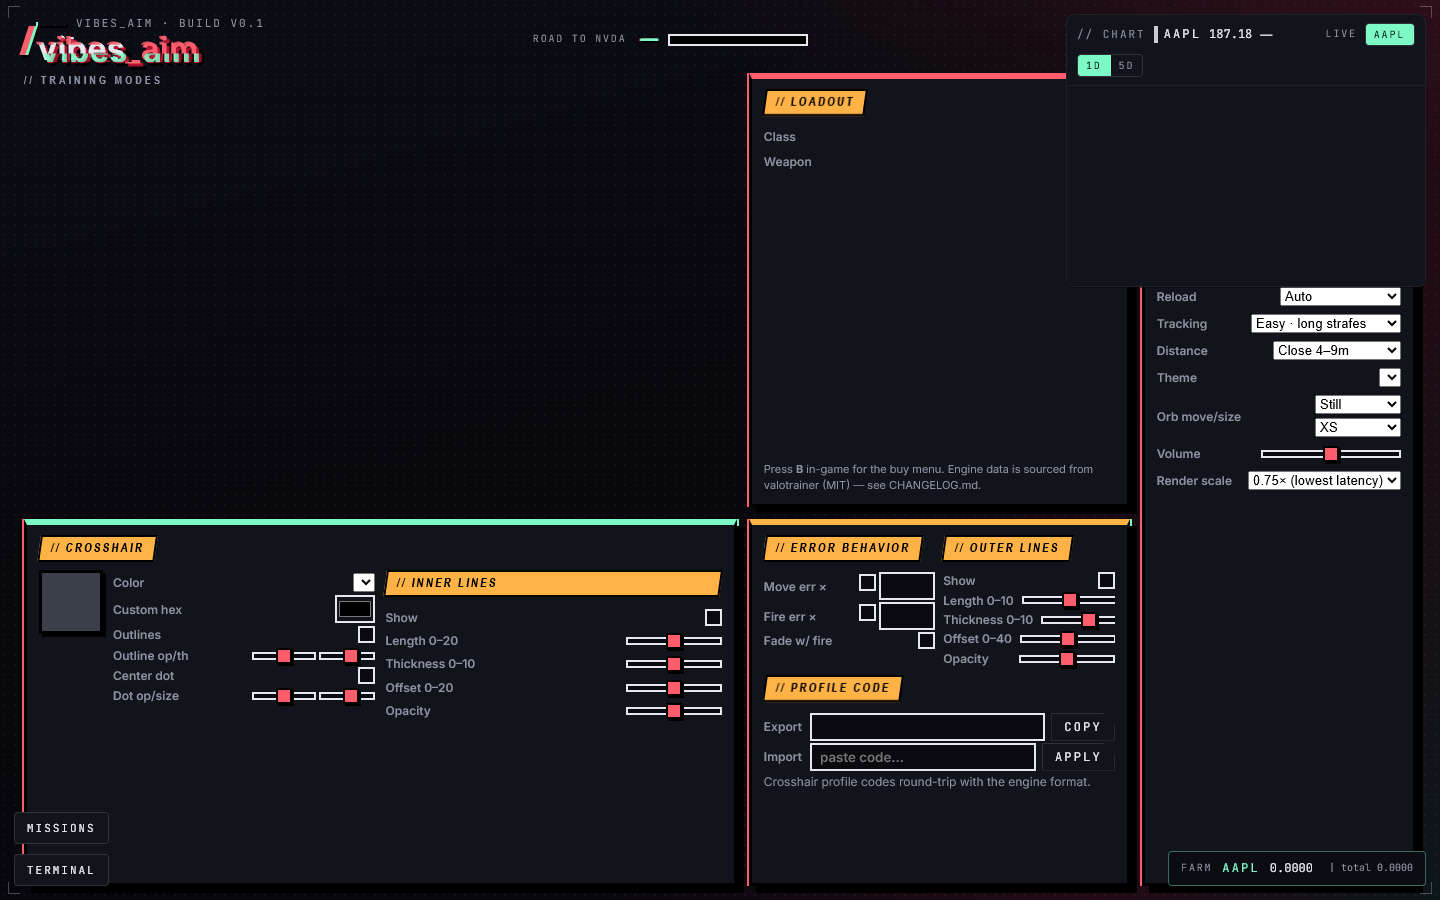
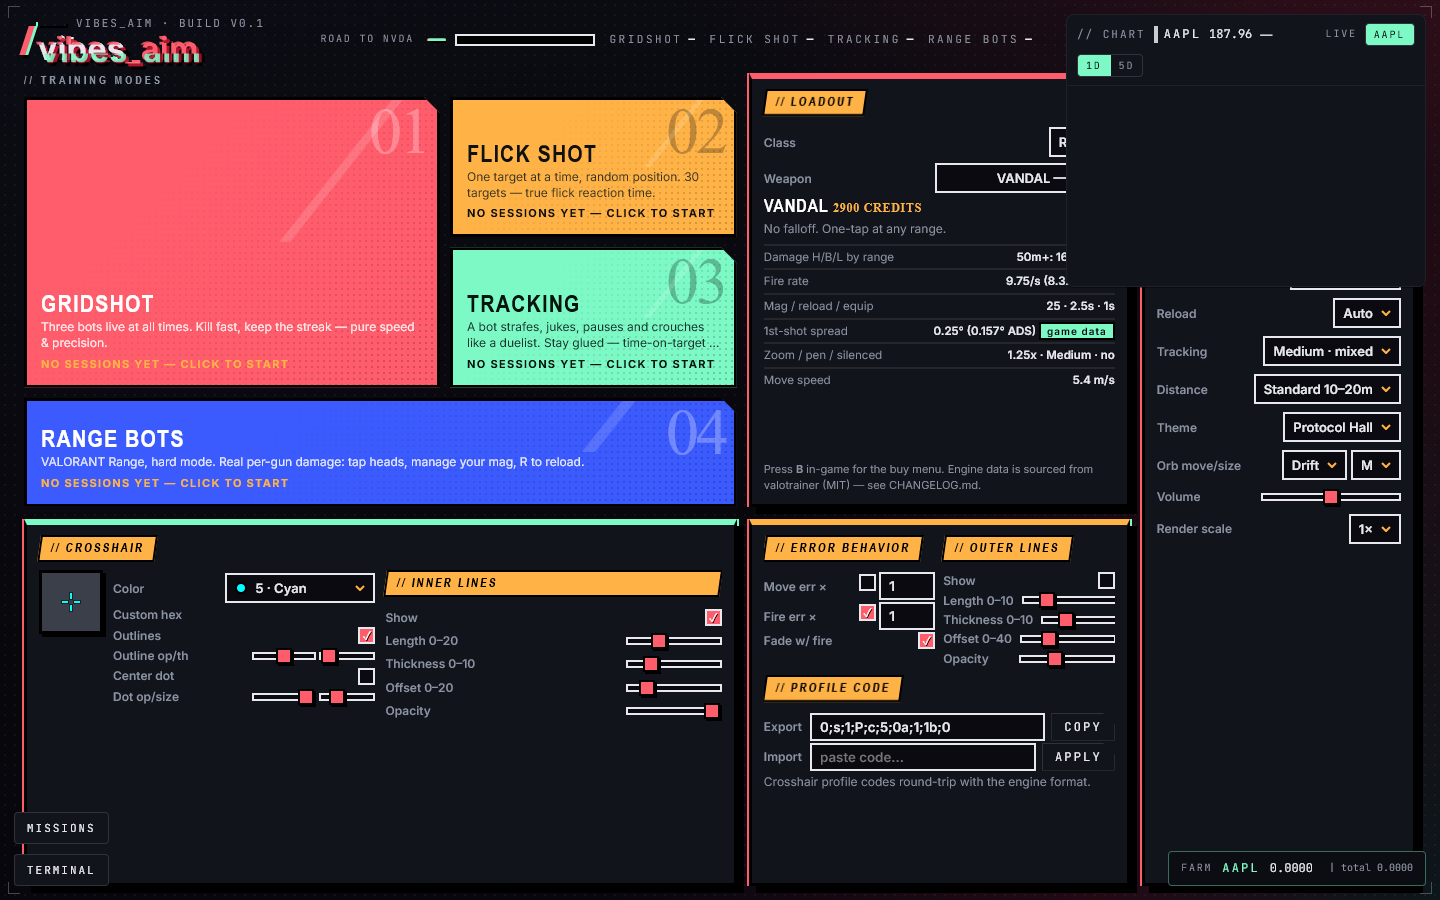
stage 11.3-11.4: secure ticker unlocks and margin

diff --git a/server/src/routes/portfolio.js b/server/src/routes/portfolio.js
@@ -7,6 +7,21 @@ import { sendJson, HttpError, round, clamp } from '../util/json.js';
 
 const MAX_LEVERAGE = 20;
 
+// Unlock check: AAPL is always farmable. Pre-IPO tickers (OPENAI,
+// ANTHROPIC) are checked separately by the market layer (returns price:
+// null), so we skip them here. Any other ticker must be unlocked by the
+// player (default unlocks are empty, so a fresh player cannot preview
+// or open a position on TSLA / NVDA / etc.).
+const PRE_IPO = new Set(['OPENAI', 'ANTHROPIC']);
+async function assertTickerUnlocked(store, playerId, ticker) {
+  if (ticker === 'AAPL') return;
+  if (PRE_IPO.has(ticker)) return; // pre-IPO tickers are checked via price
+  const unlocks = await store.listUnlocks(playerId);
+  if (!unlocks.some((u) => u.ticker === ticker)) {
+    throw new HttpError(400, 'ticker_locked', `Ticker ${ticker} is not unlocked. Complete the AAPL chain to unlock NVDA.`);
+  }
+}
+
 export function portfolioRoutes(r, { market, store }) {
   // GET /portfolio?playerId=... — current state snapshot
   r.get('/portfolio', async (req, res, _params, query) => {
@@ -26,10 +41,14 @@ export function portfolioRoutes(r, { market, store }) {
 
   // POST /portfolio/preview — given ticker/side/leverage/notional, return
   // the entry and liquidation price without opening a position.
-  r.post('/portfolio/preview', async (_req, res, _params, _query, body) => {
+  r.post('/portfolio/preview', async (req, res, _params, _query, body) => {
     const { ticker, side, leverage, notional } = body || {};
     if (!ticker || !side) throw new HttpError(400, 'bad_request', 'ticker and side required');
     if (!['long', 'short'].includes(side)) throw new HttpError(400, 'bad_side');
+    // Unlock check: read X-Player-Id from headers (preview is usually
+    // sent from the chart panel which knows the player).
+    const playerId = req.headers['x-player-id'];
+    if (playerId) await assertTickerUnlocked(store, playerId, ticker);
     const lev = clamp(Number(leverage) || 1, 1, MAX_LEVERAGE);
     const q = await market.getQuote(ticker);
     if (q.price == null) throw new HttpError(400, 'no_price', `${ticker} is awaiting market`);
@@ -39,7 +58,7 @@ export function portfolioRoutes(r, { market, store }) {
     sendJson(res, 200, {
       ticker, side, leverage: lev, entry, liquidationPrice: liq,
       notional: round(size * lev, 6),
-      margin: round(size, 6),
+      margin: round(size / lev, 6),
     });
   });
 
@@ -50,6 +69,7 @@ export function portfolioRoutes(r, { market, store }) {
     const { ticker, side, leverage, notional, confirmLiquidation } = body || {};
     if (!ticker || !side) throw new HttpError(400, 'bad_request', 'ticker and side required');
     if (!['long', 'short'].includes(side)) throw new HttpError(400, 'bad_side');
+    await assertTickerUnlocked(store, playerId, ticker);
     const lev = clamp(Number(leverage) || 1, 1, MAX_LEVERAGE);
     const q = await market.getQuote(ticker);
     if (q.price == null) throw new HttpError(400, 'no_price', `${ticker} is awaiting market`);
@@ -60,7 +80,10 @@ export function portfolioRoutes(r, { market, store }) {
       throw new HttpError(400, 'confirm_required', 'Call /portfolio/preview first, then POST with confirmLiquidation:true');
     }
     const size = Number(notional) || entry;
-    const margin = size; // simplified: margin = notional / leverage
+    // Margin = notional / leverage. With leverage 5x and notional 100,
+    // you commit 20 as margin and control 100 of position. Matches
+    // client/src/terminal-core.js#computeOrder and the /close return.
+    const margin = size / lev;
     const player = await store.getOrCreatePlayer(playerId);
     if (player.stable < margin) throw new HttpError(400, 'insufficient_margin', `need ${margin.toFixed(2)} stable, have ${player.stable.toFixed(2)}`);
     await store.addStable(playerId, -margin);

diff --git a/server/src/db/supabase.js b/server/src/db/supabase.js
@@ -62,6 +62,15 @@ export function createSupabaseStore({ url, serviceKey }) {
 
   function eqFilter(col, val) { return `${col}=eq.${encodeURIComponent(val)}`; }
   function select(cols) { return cols ? `select=${encodeURIComponent(cols)}` : 'select=*'; }
+  function toPlayer(row) {
+    if (!row) return null;
+    return {
+      ...row,
+      stable: Number(row.stable),
+      // Backward-compatible for a row created before migration 0002.
+      preciseBest: Number.isFinite(Number(row.precise_best)) ? Number(row.precise_best) : 0,
+    };
+  }
 
   return {
     backend: 'supabase',
@@ -69,15 +78,15 @@ export function createSupabaseStore({ url, serviceKey }) {
     // ----- players -----
     async getOrCreatePlayer(playerId) {
       const rows = await rpc(TABLE.players, `?${eqFilter('id', playerId)}&limit=1`);
-      if (rows && rows[0]) return rows[0];
+      if (rows && rows[0]) return toPlayer(rows[0]);
       const now = new Date().toISOString();
-      const body = [{ id: playerId, stable: 1000, created_at: now, updated_at: now }];
+      const body = [{ id: playerId, stable: 200, precise_best: 0, created_at: now, updated_at: now }];
       const inserted = await rpc(TABLE.players, `?${select()}`, { method: 'POST', body });
-      return inserted && inserted[0];
+      return toPlayer(inserted && inserted[0]);
     },
     async getPlayer(playerId) {
       const rows = await rpc(TABLE.players, `?${eqFilter('id', playerId)}&limit=1`);
-      return rows && rows[0] ? rows[0] : null;
+      return rows && rows[0] ? toPlayer(rows[0]) : null;
     },
     async addStable(playerId, amount) {
       const cur = await this.getOrCreatePlayer(playerId);
@@ -87,7 +96,20 @@ export function createSupabaseStore({ url, serviceKey }) {
         `?${eqFilter('id', playerId)}`,
         { method: 'PATCH', body: { stable: next, updated_at: now },
           headers: { 'Prefer': 'return=representation' } });
-      return rows && rows[0] ? rows[0] : { ...cur, stable: next, updated_at: now };
+      return rows && rows[0] ? toPlayer(rows[0]) : { ...cur, stable: next, updated_at: now };
+    },
+    async recordAccuracy(playerId, accuracy) {
+      const cur = await this.getOrCreatePlayer(playerId);
+      const next = Number(accuracy);
+      if (!Number.isFinite(next) || next < 0 || next <= cur.preciseBest) return cur;
+      const now = new Date().toISOString();
+      const rows = await rpc(TABLE.players,
+        `?${eqFilter('id', playerId)}`,
+        { method: 'PATCH', body: { precise_best: round6(next), updated_at: now },
+          headers: { 'Prefer': 'return=representation' } });
+      return rows && rows[0]
+        ? toPlayer(rows[0])
+        : { ...cur, preciseBest: round6(next), updated_at: now };
     },
 
     // ----- balances -----

diff --git a/server/src/routes/aim.js b/server/src/routes/aim.js
@@ -13,6 +13,19 @@ export function aimRoutes(r, { store, config }) {
     if (!hitId || typeof hitId !== 'string') throw new HttpError(400, 'missing_hit_id', 'hitId is required');
     if (!ticker || typeof ticker !== 'string') throw new HttpError(400, 'missing_ticker', 'ticker is required');
 
+    // Unlock check: AAPL is always farmable. Pre-IPO tickers (OPENAI,
+    // ANTHROPIC) are valid hit targets — the server mints their unit but
+    // the chart shows no price. Any other ticker requires an unlock
+    // record. This makes the AAPL -> NVDA chain real: you cannot bypass
+    // the missions by POSTing directly to /aim/hit with a different
+    // ticker. Tickers the player has never heard of (typo) are caught
+    // here before they reach the rate limiter.
+    const PRE_IPO = new Set(['OPENAI', 'ANTHROPIC']);
+    const unlocks = await store.listUnlocks(playerId);
+    if (ticker !== 'AAPL' && !PRE_IPO.has(ticker) && !unlocks.some((u) => u.ticker === ticker)) {
+      throw new HttpError(400, 'ticker_locked', `Ticker ${ticker} is not unlocked. Complete the AAPL chain to unlock NVDA.`);
+    }
+
     // Rate limit (per session, sliding window)
     const rate = await store.hitRateCheck({ sessionId, windowMs: 1000, maxInWindow: config.aim.hitRps });
     if (!rate.allowed) {

diff --git a/client/js/missions.js b/client/js/missions.js
@@ -145,10 +145,21 @@ export function mountMissions({ root, onTickerUnlocked } = {}) {
   return { unmount, state: () => ({ unlockedThisSession, lastUnlocks: [...lastUnlocks] }) };
 }
 
-// Auto-mount when this module is loaded in a real browser.
+// Auto-mount after the panel markup is definitely available. Module scripts
+// are deferred, but several independent modules boot in parallel; using the
+// DOM readiness boundary avoids a rare visual-test race where the aim menu
+// was ready before this panel had subscribed to the store.
+function autoMountMissions() {
+  const panel = document.getElementById('vibes-missions');
+  if (!panel || panel.dataset.vmMounted === 'true') return;
+  panel.dataset.vmMounted = 'true';
+  mountMissions({ root: panel });
+}
+
 if (typeof document !== 'undefined') {
-  queueMicrotask(() => {
-    const panel = document.getElementById('vibes-missions');
-    if (panel) mountMissions({ root: panel });
-  });
+  if (document.readyState === 'loading') {
+    document.addEventListener('DOMContentLoaded', autoMountMissions, { once: true });
+  } else {
+    queueMicrotask(autoMountMissions);
+  }
 }

diff --git a/server/src/routes/missions.js b/server/src/routes/missions.js
@@ -59,11 +59,17 @@ export function missionsRoutes(r, { store }) {
 }
 
 async function readState(playerId, store) {
+  const player = await store.getOrCreatePlayer(playerId);
   const trades = await store.listTrades(playerId);
   const balances = await store.getAllBalances(playerId);
   const hits = await store.countHits(playerId);
   const earnedAapl = await store.totalEarnedViaAim(playerId, 'AAPL');
-  return { trades, balances, hits, earnedAapl };
+  return {
+    trades, balances, hits, earnedAapl,
+    // Missing data is a valid state for existing players created before
+    // the precision field. It must resolve to zero, never NaN/null.
+    preciseBest: Number.isFinite(Number(player.preciseBest)) ? Number(player.preciseBest) : 0,
+  };
 }
 
 async function checkMission(def, state, store) {

diff --git a/client/src/terminal-core.js b/client/src/terminal-core.js
@@ -47,7 +47,10 @@ export function computeOrder({ side, leverage, notional, entryPrice, balance } =
   const lev = clampLeverage(leverage);
   const size = clampNotional(notional, Number.POSITIVE_INFINITY);
   if (size <= 0) return { ok: false, error: 'bad_input' };
-  const margin = size; // simplified: margin = notional / leverage
+  // Margin = notional / leverage. With leverage 5x and notional 100,
+  // you commit 20 as margin and control 100 of position. This matches
+  // server/src/routes/portfolio.js which uses the same formula.
+  const margin = size / lev;
   const qty = size / entryPrice;
   const liq = computeLiquidationPrice(side, entryPrice, lev);
   const marginOk = balance == null ? true : (Number(balance) >= margin);

diff --git a/tests/visual_smoke.py b/tests/visual_smoke.py
@@ -42,7 +42,11 @@ def main():
 
     client_port = find_port()
     client_origin = f"http://127.0.0.1:{client_port}"
-    server_port = 3098
+    # Never use a fixed API port here. A prior test/helper can leave a
+    # process alive briefly; fixed 3098 could make the browser talk to a
+    # stale backend while this process fails to bind. A fresh OS-assigned
+    # port isolates every visual run.
+    server_port = find_port()
 
     # Start server
     env = {**os.environ, "ORIGIN": client_origin, "PORT": str(server_port), "AIM_HIT_RPS": "5000"}
@@ -66,7 +70,11 @@ def main():
             return super().do_GET()
 
     def serve():
-        with socketserver.TCPServer(("127.0.0.1", client_port), Handler) as httpd:
+        # ES modules are fetched concurrently by Chrome. A single-threaded
+        # TCPServer can refuse parallel imports, leaving an incomplete UI
+        # (for example, missions.js never mounts). ThreadingHTTPServer
+        # serves the complete module graph deterministically.
+        with http.server.ThreadingHTTPServer(("127.0.0.1", client_port), Handler) as httpd:
             httpd.serve_forever()
     threading.Thread(target=serve, daemon=True).start()
 
@@ -82,6 +90,8 @@ def main():
             "dom": {},
             "console_errors": [],
             "page_errors": [],
+            "request_failures": [],
+            "error_responses": [],
         }
 
         with sync_playwright() as p:
@@ -95,6 +105,12 @@ def main():
             page = ctx.new_page()
             page.on("pageerror", lambda e: summary["page_errors"].append(str(e)))
             page.on("console", lambda m: summary["console_errors"].append(m.text) if m.type == "error" else None)
+            page.on("requestfailed", lambda r: summary["request_failures"].append({
+                "url": r.url, "failure": r.failure,
+            }))
+            page.on("response", lambda r: summary["error_responses"].append({
+                "url": r.url, "status": r.status,
+            }) if r.status >= 400 else None)
             # requestfailed and 4xx/5xx responses are recorded but filtered
             # in the post-process pass below; Chrome strips the URL from
             # the generic "Failed to load resource" line, so we cannot
@@ -121,7 +137,33 @@ def main():
 
             # Open the missions
             page.click("#vibes-open-missions", timeout=10000)
-            page.wait_for_timeout(2000)
+            # Do not rely on a wall-clock sleep: the panel renders from
+            # store refresh asynchronously. Wait for all six rows so the
+            # DOM summary and screenshot cannot race a late render.
+            try:
+                page.wait_for_function(
+                    'document.querySelectorAll("[data-vm-kind]").length === 6',
+                    timeout=10000,
+                )
+            except Exception as exc:
+                # Emit focused state on failure so a visual flake has
+                # actionable evidence instead of a generic timeout.
+                summary["mission_debug"] = page.evaluate("""() => {
+                  const panel = document.getElementById('vibes-missions');
+                  const body = panel && panel.querySelector('[data-vm-body]');
+                  return {
+                    readyState: document.readyState,
+                    panelExists: !!panel,
+                    panelHidden: panel ? panel.hidden : null,
+                    mounted: panel ? panel.dataset.vmMounted || null : null,
+                    rows: document.querySelectorAll('[data-vm-kind]').length,
+                    tbodyChildren: body ? body.children.length : null,
+                    moduleScripts: [...document.querySelectorAll('script[type="module"]')].map((s) => s.src || 'inline'),
+                  };
+                }""")
+                summary["real_errors"] = list(summary["page_errors"])
+                print(json.dumps(summary, ensure_ascii=False, indent=2))
+                raise RuntimeError(f"missions rows did not render: {summary['mission_debug']}") from exc
             out3 = os.path.join(SCREENSHOTS_DIR, "03-missions.png")
             page.screenshot(path=out3)
             summary["screenshots"].append(out3)

diff --git a/docs/MISTAKES.md b/docs/MISTAKES.md
@@ -74,3 +74,10 @@
 - The client store started with an empty `unlocks: []` and an empty `missions: []`. The first render of every panel read this empty state. `mountMissions` rendered `0/6 claimed` with the unlock card still hidden (correct), but the **second** render — after `store.refresh()` returned — overwrote the unlock card's hidden state with `false` if `allMissionsClaimed([])` returned true (it doesn't, but the same race exists for any panel that decides visibility from store state). Fix: kick off `store.refresh()` from a single bootstrap module that runs **before** any UI panel mounts.
 - `path.dirname(fileURLToPath(import.meta.url))` already gives the test file's directory. Doing `path.resolve(..., '..', '..')` went two levels up out of the repo. The Python script was found at `prro_grams/tests/visual_smoke.py` instead of `prro_aim/tests/`. Lesson: when you compute a path with `..`, count the directory hops against the actual file. The visual test is at `tests/visual.test.mjs`, the repo root is one `..` up, not two.
 - The visual smoke's NVDA click timed out because NVDA is hidden for a fresh player. Lesson: when an element might not be visible yet, either wait for it explicitly or assert visibility without clicking. The "click everything in sight" pattern is fine in the happy path and a footgun in the cold-start path.
+
+## Stage 11.3–11.4 — Consistency gaps and visual flake (2026-10-05)
+
+- **Margin semantics were inconsistent.** Client/server order paths debited full position `size`, while close returned `size / leverage`. For size 100 at 5×, opening from 200 Stable left 100 and a flat close returned only 20, silently destroying 80 Stable. Fix: every preview/debit/refund now uses `margin = size / leverage`, and terminal integration tests assert the full round-trip. Lesson: any financial-looking quantity must have one named meaning and one end-to-end contract test across preview → mutation → close.
+- **`preciseBest` was only partly wired.** Memory state could record it, but mission state did not expose it; Supabase lacked the column/method entirely. A successful aim hit could therefore never complete the real accuracy mission in some deployments. Fix: added mission-state mapping, Supabase `recordAccuracy`, initial schema field, and a forward migration. Lesson: when adding a player field, audit every storage backend, migration path, and read model — not only the default local store.
+- **Visual smoke used a single-threaded local static server.** Chrome fetches ES modules concurrently; some module requests were refused, leaving `missions.js` unloaded and the mission table empty. Increasing waits did not solve it. Fix: `ThreadingHTTPServer`, ephemeral API port, and explicit row readiness wait. Lesson: a browser test server must support concurrent asset loading; never diagnose a transport race as an application UI defect.
+- **The integration test assumed stub price drift always favoured a long.** That made `first_profit` time-dependent. Fix: injected deterministic entry/exit prices (100 → 110) for that test. Lesson: tests requiring a profit must own the price path rather than infer it from clock-driven fixtures.

diff --git a/docs/CHANGELOG.md b/docs/CHANGELOG.md
@@ -367,3 +367,20 @@
 - The CI workflow will not have run yet until the next push. After the first push, the user can tighten the ruleset to require the `test / node-test` status check by adding a `required_status_checks` rule.
 - No `dependabot.yml` or `codeql.yml` yet. Both are 10-line adds if the user wants Renovate-style dependency PRs or security scanning.
 - The README mentions "no `npm install`" — the CI workflow honours this because `actions/setup-node` does not run `npm ci` unless the user runs it; `npm test` here is a no-deps chain of `node tests/*.test.mjs`.
+
+## Stage 11.3–11.4 — Progression gate, honest accuracy, margin integrity, visual-test stability (2026-10-05)
+
+- **Server-authoritative progression:** AAPL remains available for a fresh player. Locked market tickers are rejected with `400 ticker_locked` by `/aim/hit`, `/portfolio/preview`, and `/portfolio/order`. Pre-IPO order requests retain `400 no_price` rather than being misclassified as locked.
+- **Real accuracy state:** `preciseBest` is written from valid aim hits, included in mission state, and persisted through both the memory and Supabase stores. Added `server/migrations/0002_add_precise_best.sql` for existing Supabase databases.
+- **Single leverage formula:** client preview, server preview, server order debit, and close refund all use `margin = position size / leverage`. A 100 Stable position at 5× reserves 20 Stable and returns that margin at flat close; the old inconsistent debit/refund loss is removed.
+- **Stable default consistency:** both memory and Supabase new-player paths start at 200 Stable; tests were corrected from obsolete 1000-Stable assumptions.
+- **Visual-smoke repair:** the Python helper now serves browser ES modules via `ThreadingHTTPServer`, uses ephemeral backend ports, and waits for the six mission rows. This removes the intermittent `ERR_CONNECTION_REFUSED` module-import race that left the missions panel unmounted.
+
+### Evidence
+
+- `node tests/server.test.mjs` → exit 0, including locked ticker, AAPL baseline, and Pre-IPO behavior.
+- `node tests/terminal.test.mjs` → exit 0, including preview/order/close margin agreement.
+- `node tests/missions.test.mjs` and `node tests/supabase.test.mjs` → exit 0, including a real `accuracy: 0.9` hit and monotonic Supabase `preciseBest` persistence.
+- `npm run test:slow` → exit 0; real wall-clock hold recorded as `60020ms`.
+- `node tests/visual.test.mjs` run three times consecutively → exit 0 each time.
+- Final `npm test` → exit 0; all configured suites reported `ALL PASS`, including visual smoke with 6 mission rows.

diff --git a/docs/PLAN.md b/docs/PLAN.md
@@ -52,6 +52,21 @@ Stages are small, each ends with evidence in `CHANGELOG.md` and (when relevant) 
 
 ## Active stage
 
+### Stage 11.3–11.4 — market unlock enforcement and margin consistency (DONE 2026-10-05)
+
+**Verified evidence:** `node tests/server.test.mjs`, `node tests/terminal.test.mjs`, and `npm test` all exited 0. `npm run test:slow` held a real position for 60020 ms and exited 0. Visual smoke passed three consecutive isolated runs after its server-concurrency repair.
+
+**Scope:** enforce the AAPL → NVDA progression gate for minting/trading and make client preview, server order debit, and server close refund use one leverage formula: `margin = position notional / leverage`.
+
+**Acceptance criteria:**
+
+- `POST /aim/hit`, `/portfolio/preview`, and `/portfolio/order` return `400 ticker_locked` for locked market tickers, while AAPL remains available to a fresh player.
+- Pre-IPO ticker orders retain the explicit `400 no_price` result rather than being mislabeled as a lock.
+- Client order preview, server preview, server debit, and server close refund agree on margin.
+- Targeted server and terminal tests plus the full `npm test` chain pass without DEBUG output.
+
+**Out of scope for this stage:** market-hours gate, chart/UI polish, active-ticker hint, README changes, CI changes.
+
 Stage 4 — Client state + persistence. Sub-steps (DONE 2026-10-04, 10/10 test suites green, 4 documents updated, committed):
 
 - 4.1 `client/src/store.js` — DONE.

diff --git a/docs/TODO.md b/docs/TODO.md
@@ -96,8 +96,10 @@
 ## Stage 9 backlog (real accuracy, real 60s, ticker list)
 
 - [x] **Unlocked tickers list UI** — `chart.js` now subscribes to the store and shows NVDA button only after unlock. AAPL always visible. → DONE.
-- [ ] **`precise_session` real accuracy** — currently a server proxy (any winning trade). Real accuracy tracking from the client is queued.
-- [ ] **`hold_60s` real 60s** — currently 1 second MVP. Real session timer queued.
+- [x] **`precise_session` real accuracy** — highest valid aim-hit accuracy is server-recorded as `preciseBest`; memory and Supabase paths persist it. → DONE 2026-10-05.
+- [x] **`hold_60s` real 60s** — position must be open at least 60,000 ms. Dedicated real-time `npm run test:slow` recorded 60,020 ms. → DONE 2026-10-05.
+- [x] **Server ticker unlock gate** — locked ticker aim minting and paper-trade preview/order return `400 ticker_locked`; AAPL remains baseline; Pre-IPO orders remain `no_price`. → DONE 2026-10-05.
+- [x] **Leverage margin consistency** — preview, debit, and refund share `margin = size / leverage`. → DONE 2026-10-05.
 
 ## Stage 10 — Polish, release tag (DONE 2026-10-04)
 
